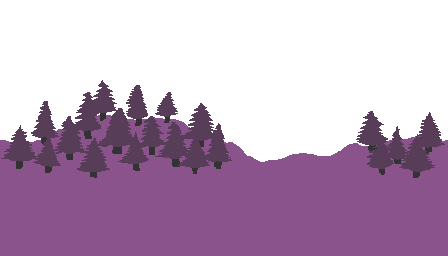
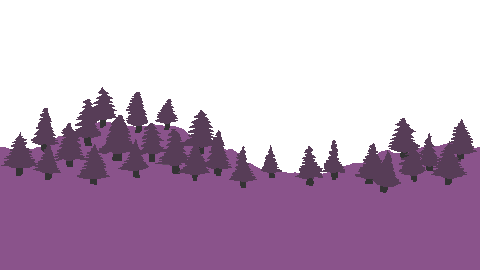
decided on resolution

Changed region(s): [[0.0, 0.3125, 0.9688, 0.7188], [0.9375, 0.4375, 1.0, 0.5625]]

diff --git a/Scripts/Player/Player.cs b/Scripts/Player/Player.cs
@@ -9,11 +9,12 @@ public partial class Player : CharacterBody2D
 	// FOR TEMPORARY DEBUG RELOADING GAME SCENE
 	// [Export] private Node2D gameScene;
 
-	// Signals
+	// Singletons
 	private CustomSignals customSignals;
+    //private GameState gameState;
 
-	// Instaniates
-	[Export] private PackedScene fireball;
+    // Instaniates
+    [Export] private PackedScene fireball;
 
     // Child nodes
     [Export] private AnimatedSprite2D animatedSprite;
@@ -63,8 +64,9 @@ public partial class Player : CharacterBody2D
 	public override void _Ready()
 	{
 		customSignals = GetNode<CustomSignals>("/root/CustomSignals");
+        //gameState = GetNode<GameState>("/root/GameState");
 
-		gravity = defaultGravity;
+        gravity = defaultGravity;
 		shaderScript = animatedSprite as PlayerShaderEffects;
 		AbilityList = new List<ElementState>();
 		BaseAbility = ElementState.normal;

diff --git a/Scripts/UI/PauseMenu.cs b/Scripts/UI/PauseMenu.cs
@@ -1,0 +1,43 @@
+using Godot;
+using System;
+
+public partial class PauseMenu : Panel
+{
+    // Singletons
+    private CustomSignals customSignals;
+    private GameState gameState;
+
+	public override void _Ready()
+	{
+        gameState = GetNode<GameState>("/root/GameState");
+        Resume();
+	}
+
+    public override void _Process(double delta)
+	{
+		if (Input.IsActionJustPressed("inputPause"))
+		{
+			if (gameState.IsGamePaused)
+				Resume();
+			else
+				Pause();
+		}
+	}
+
+
+    public void Pause()
+	{
+		Engine.TimeScale = 0;
+		GetTree().Paused = true;
+		Show();
+        gameState.IsGamePaused = true;
+	}
+
+	public void Resume()
+	{
+        Engine.TimeScale = 1;
+        GetTree().Paused = false;
+        Hide();
+        gameState.IsGamePaused = false;
+    }
+}

diff --git a/Scripts/Global/GlobalTypes.cs b/Scripts/Global/GlobalTypes.cs
@@ -6,8 +6,9 @@ namespace GlobalTypes
 {
     public enum ColorSet { red, blue, white, brown, green }; // Global color set
     public enum ElementState { normal, water, fire, air, earth };
-    public enum InteractableType { teleport, checkpoint, sign, entrance }; // checkpoint is also a teleport that brings you back
-    public enum Direction { left, right, up, down };
+    public enum World { PurpleForest, DistantShoreline }
+    //public enum InteractableType { teleport, checkpoint, sign, entrance }; // checkpoint is also a teleport that brings you back
+    //public enum Direction { left, right, up, down };
 
     public enum ScreenTransition { empty, levelEntry, levelCompleted };
 

diff --git a/Scripts/Global/GameState.cs b/Scripts/Global/GameState.cs
@@ -1,0 +1,24 @@
+using Godot;
+using System;
+using System.Collections.Generic;
+using GlobalTypes;
+
+public partial class GameState : Node
+{
+    // Data loaded from the save file
+    public Dictionary<World, List<string>> CompletedLevels { get; private set; } = new();
+
+
+
+    // Data not loaded from the save file
+    public int NoCompletedLevels { get; private set; } = 0;
+    public bool IsGamePaused { get; set; } = false; // Pause is set in pause menu
+
+
+    // Methods
+    public void CompleteLevel(World world, string levelName)
+    {
+        NoCompletedLevels++;
+        CompletedLevels[world].Add(levelName);
+    }
+}

diff --git a/Scripts/Behaviors/ParallaxOffset.cs b/Scripts/Behaviors/ParallaxOffset.cs
@@ -1,0 +1,15 @@
+using Godot;
+using System;
+
+public partial class ParallaxOffset : ParallaxBackground
+{
+    [Export] private float maxOffset = 448.0f;
+    //[Export] private float offset = 0.0f;
+
+    public override void _Ready()
+	{
+        RandomNumberGenerator rng = new();
+        float offset = rng.RandfRange(0.0f, maxOffset);
+        ScrollBaseOffset = new Vector2(2*offset, 0.0f);
+	}
+}
